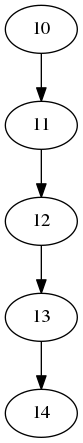
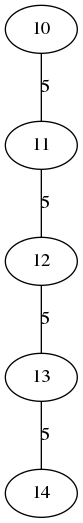
1

diff --git a/debt/src/lib/graph/graph.go b/debt/src/lib/graph/graph.go
@@ -7,14 +7,16 @@ package graph
 import (
 	"bytes"
 	"fmt"
+	"strconv"
+	"errors"
 	"github.com/tlehman/ds"
 )
-
+var ErrEdgeNotFound=errors.New("edge not found")
 
 // forms a linked list of incident edges
 type edge struct {
 	y      int
-	weight int
+	weight float64
 	next   *edge
 }
 
@@ -29,14 +31,15 @@ type AdjList struct {
 	edgeCount   int
 	vertexCount int
 	directed    bool
+	weight		bool
 	vertexset   []bool
 }
 
 // Builds a new adjaceny list, storing the boolean flag that
 // distinguishes a directed from an undirected graph.
-func New(directed bool) AdjList {
+func New(directed,weight bool) AdjList {
 	edges := make([]*edge, 0)
-	return AdjList{edges: edges, directed: directed}
+	return AdjList{edges: edges, directed: directed,weight:weight}
 }
 
 // Returns the size of the set of vertices
@@ -84,6 +87,50 @@ func (g *AdjList) AddEdge(x, y int) {
 	}
 }
 
+func (g *AdjList) AddEdgeWithWeight(x, y int,weight float64) {
+	g.weight=true
+	g.addEdge(x,y)
+	g.EditWeight(x,y,weight)
+	if !g.directed {
+		g.addEdge(y,x)
+		g.EditWeight(y,x,weight)
+	}
+}
+
+func (g *AdjList)EditWeight(x,y int,weight float64)error{
+	g.weight=true
+	notFound:=true
+	for e:=g.edges[x];e!=nil;e=e.next{
+		if e.y==y{
+			e.weight=weight
+			notFound=false
+		}
+	}
+
+	if notFound{
+		errMess:=fmt.Sprintf("edge <%d %d> not found",x,y)
+		return errors.New(errMess)
+	}
+	return nil
+}
+
+func (g *AdjList)GetWeight(x,y int)(float64,error){
+	notFound:=true
+	var weight float64
+	for e:=g.edges[x];e!=nil;e=e.next{
+		if e.y==y{
+			weight=e.weight
+			notFound=false
+		}
+	}
+
+	if notFound{
+		errMess:=fmt.Sprintf("edge <%d %d> not found",x,y)
+		return 0,errors.New(errMess)
+	}
+	return weight,nil
+}
+
 func (g *AdjList) resizeEdges(size int) {
 	diff := size - len(g.edges)
 	for i := 0; i <= diff; i++ {
@@ -109,7 +156,12 @@ func (g AdjList) String() string {
 	for x, e := range g.edges {
 		if x > -1 && e.y > -1 {
 			for c := e; c != nil; c = c.next {
-				buffer.WriteString(fmt.Sprintf("  %d %s %d;\n", x, arrow, c.y))
+				if g.weight{
+					weightStr:=strconv.FormatFloat(c.weight,'f',-1,64)
+					buffer.WriteString(fmt.Sprintf("  %d %s %d[label=%s];\n", x, arrow, c.y,weightStr))
+				}else{
+					buffer.WriteString(fmt.Sprintf("  %d %s %d;\n", x, arrow, c.y))
+				}
 			}
 		}
 	}

diff --git a/debt/src/ctrl/ctrl.go b/debt/src/ctrl/ctrl.go
@@ -10,6 +10,8 @@ import(
 
 var vrgfile="vrg"
 var pngfile="png"
+var directed=false
+var	weight=true
 var significant=2
 type GAL []*graph.AdjList
 
@@ -18,11 +20,10 @@ func SubGraph(){
 	var mainGraph="main"
 	var subGraph="subgraph"
 	datas:=data.New()
-	directed:=true
-	g := graph.New(directed)
+	g := graph.New(directed,weight)
 
 	for _,v:=range datas.DStore{
-		g.AddEdge(int(v.OwnerId),int(v.DebtorId))
+		g.AddEdgeWithWeight(int(v.OwnerId),int(v.DebtorId),v.Amount)
 	}
 
 	if err:=draw(mainGraph,g.String());err!=nil{
@@ -47,10 +48,10 @@ func subGraphAdjList(datas *data.DataS,g graph.AdjList,comps []int,directed bool
 	for _,v:=range datas.DStore {
 		key:=comps[v.OwnerId]
 		if gal[key]==nil{
-			adj:=graph.New(directed)
+			adj:=graph.New(directed,weight)
 			gal[key]=&adj
 		}
-		gal[key].AddEdge(int(v.OwnerId),int(v.DebtorId))
+		gal[key].AddEdgeWithWeight(int(v.OwnerId),int(v.DebtorId),v.Amount)
 	}
 	return gal
 }

diff --git a/debt/src/lib/graph/graph_test.go b/debt/src/lib/graph/graph_test.go
@@ -7,7 +7,7 @@ import (
 
 func digraphSixVertices() AdjList {
 	directed := true
-	g := New(directed)
+	g := New(directed,false)
 	g.AddEdge(0, 2)
 	g.AddEdge(1, 3)
 	g.AddEdge(1, 4)
@@ -50,7 +50,7 @@ func TestString(t *testing.T) {
 
 func graphSevenVertices() AdjList {
 	directed := false
-	g := New(directed)
+	g := New(directed,false)
 	g.AddEdge(0, 2)
 	g.AddEdge(1, 2)
 	g.AddEdge(1, 3)
